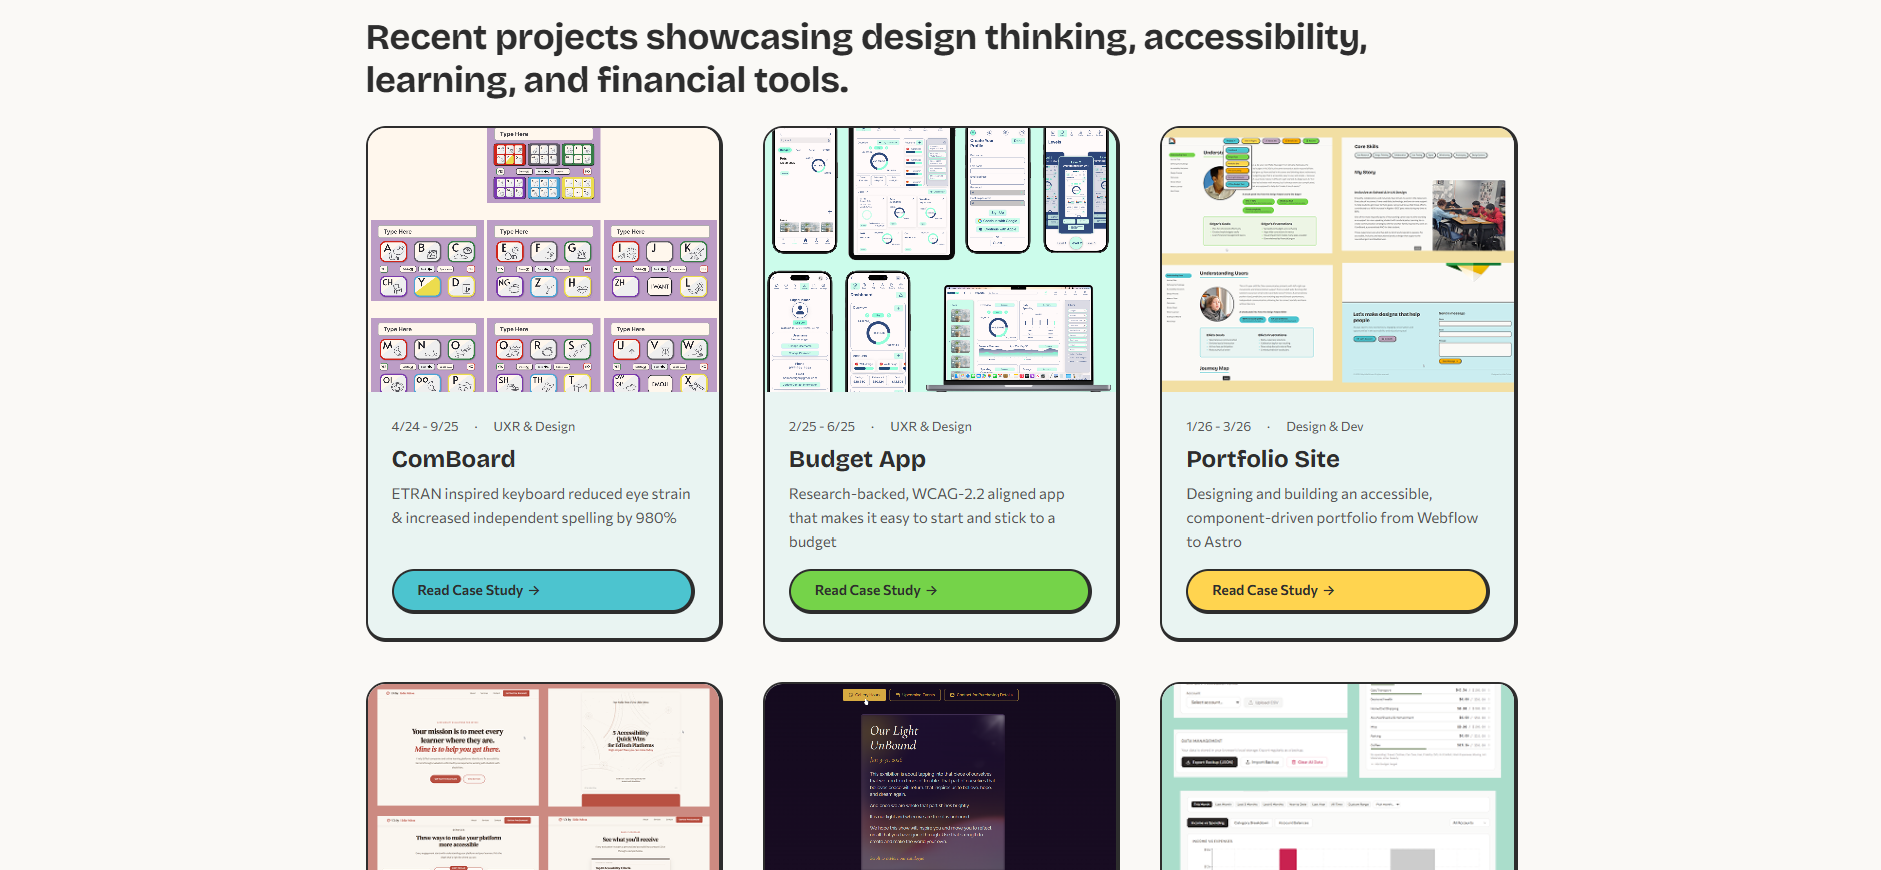
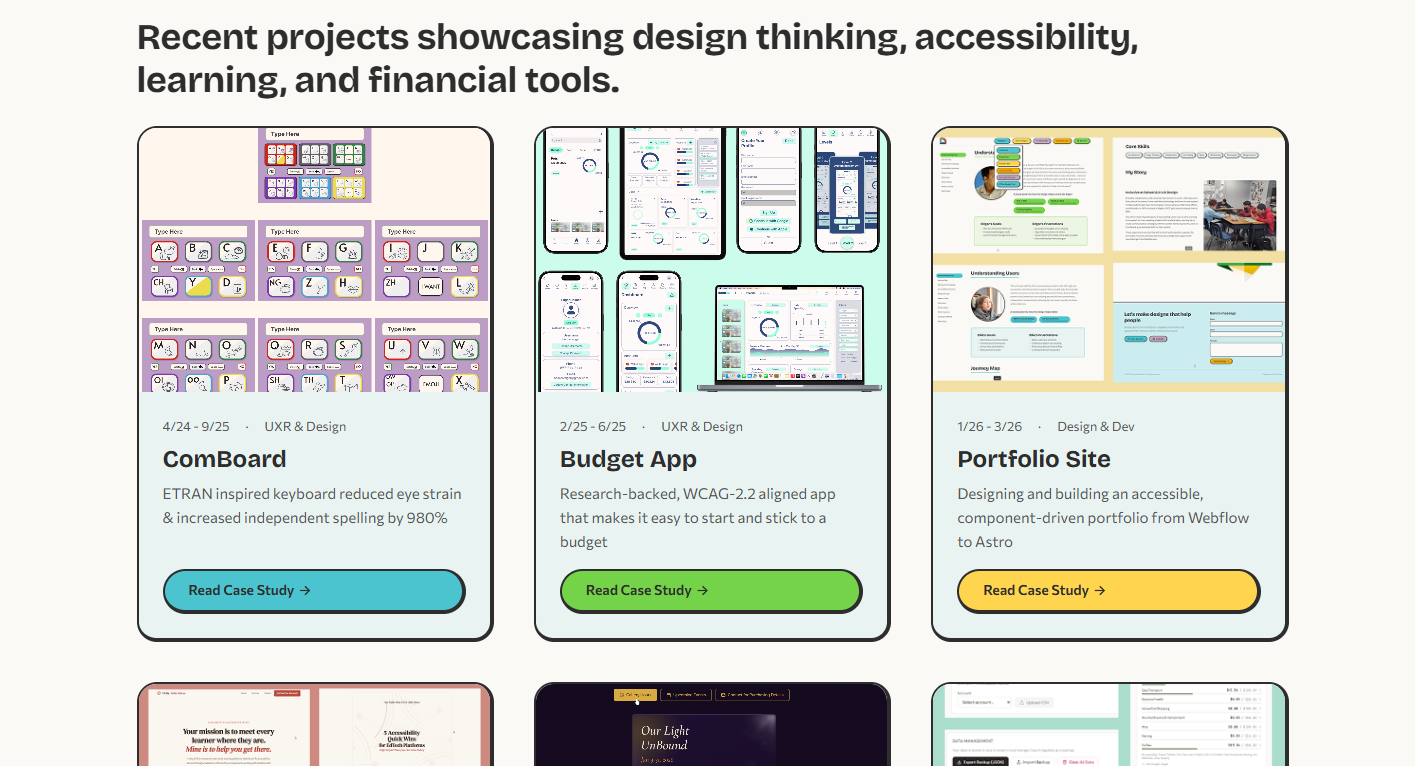
Match before/after image heights with object-fit cover

diff --git a/src/styles/global.css b/src/styles/global.css
@@ -2115,6 +2115,9 @@ strong {
 
 .before-after__figure img {
   width: 100%;
+  height: 100%;
+  object-fit: cover;
+  object-position: top left;
   border-radius: var(--radius-md);
   border: 2px solid var(--color-shadow);
   border-right-width: var(--border-neo-thick);
